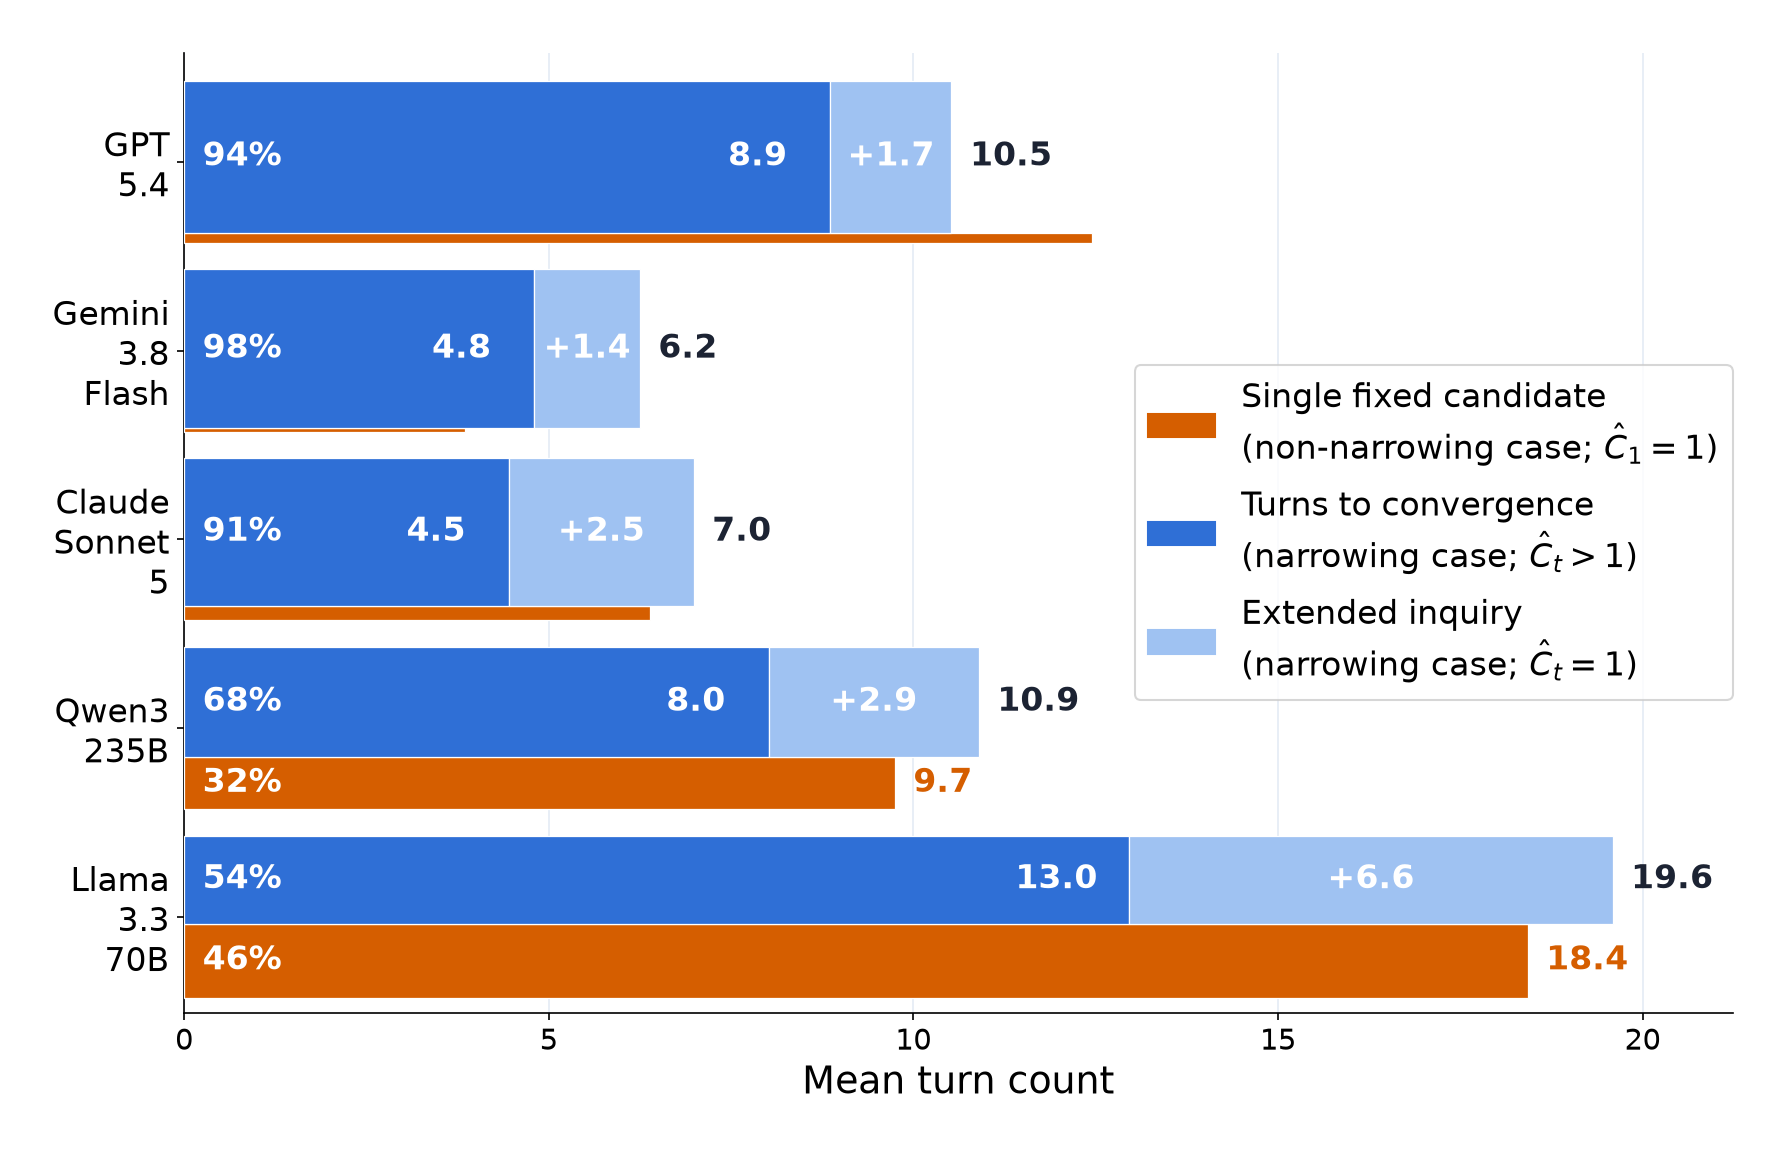
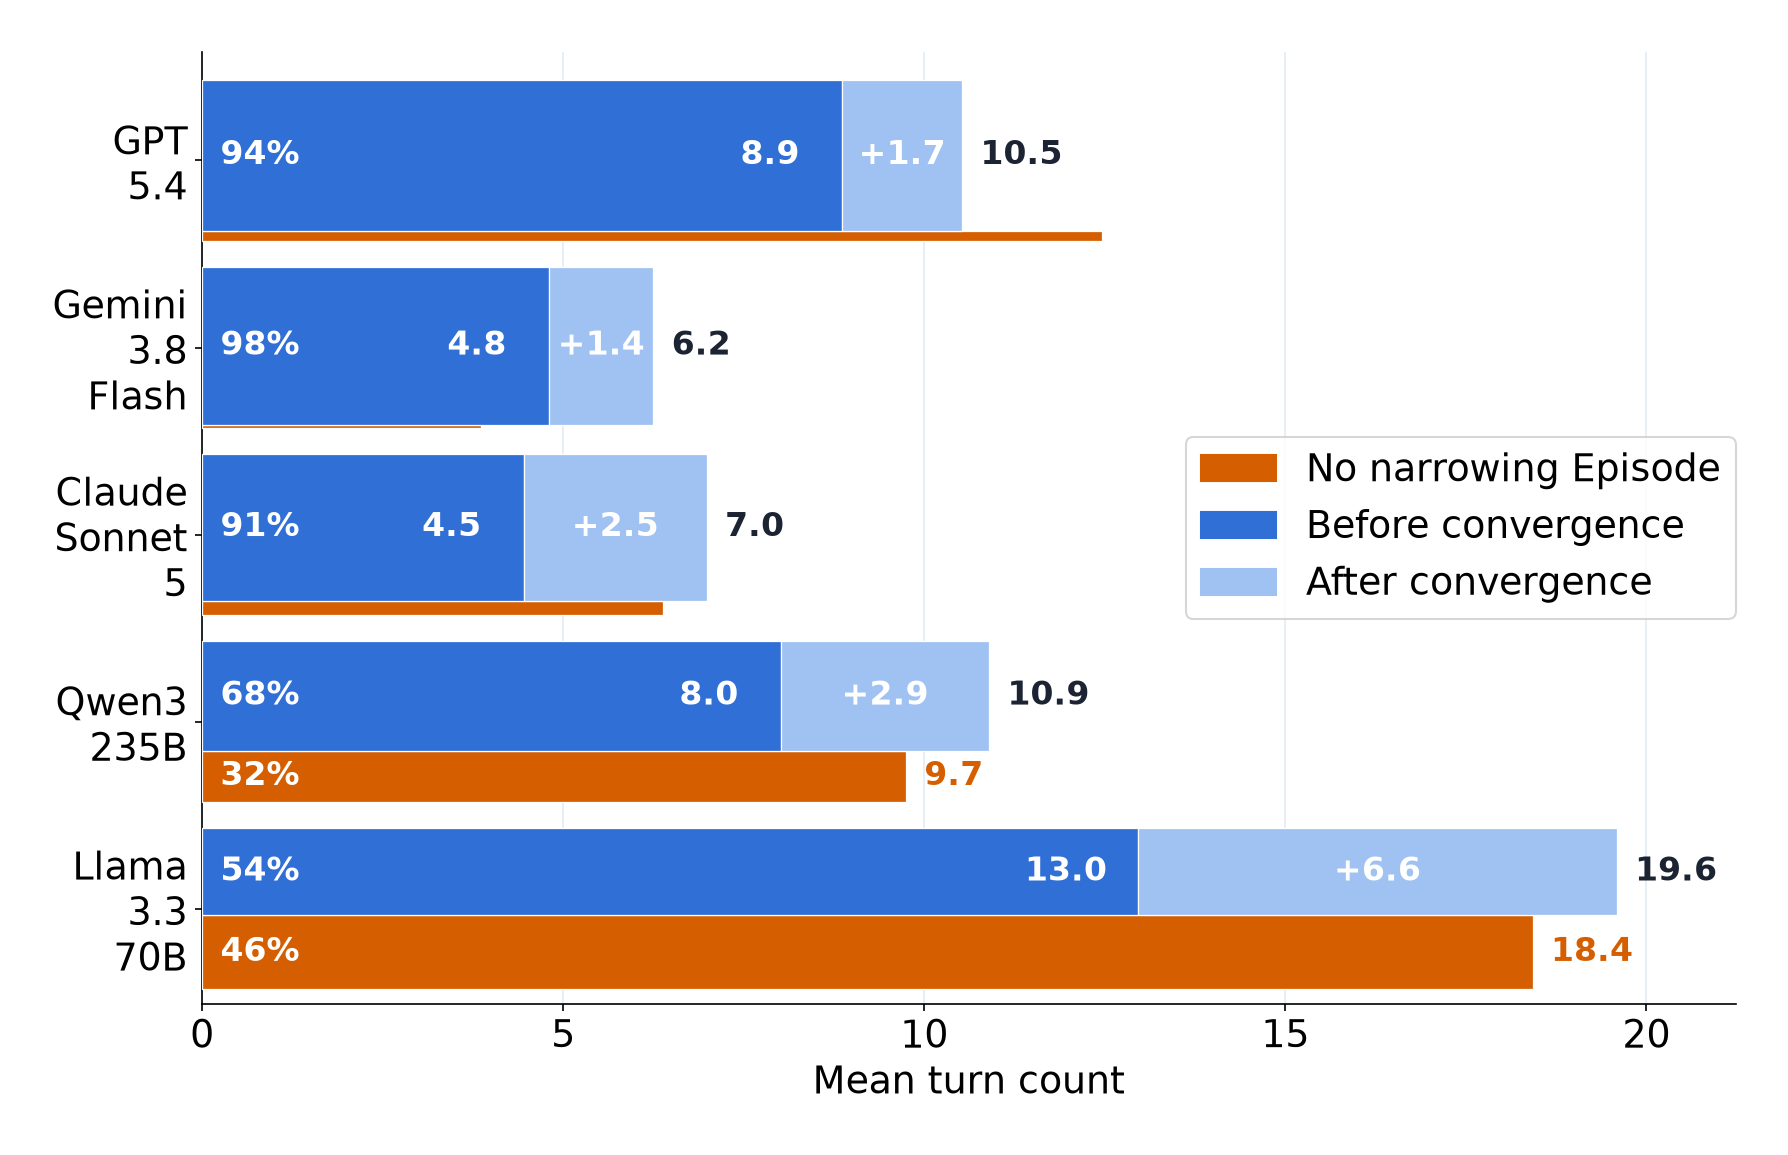
modify: marimekko plot

Changed region(s): [[0.0308, 0.0623, 0.9552, 0.9662], [0.6162, 0.3117, 0.986, 0.5922], [0.8936, 0.8727, 0.9552, 0.9039]]

diff --git a/reporting/plot_overcommitment_marimekko.py b/reporting/plot_overcommitment_marimekko.py
@@ -174,17 +174,17 @@ def main() -> None:
         ax.grid(axis="x", color="#E4EBF5", linewidth=0.8, zorder=0)
         ax.spines[["top", "right"]].set_visible(False)
         ax.set_xlabel("Mean turn count", fontsize=18)
-        ax.tick_params(axis="x", labelsize=14)
+        ax.tick_params(axis="both", labelsize=18)
 
         handles = [
             plt.Rectangle((0, 0), 1, 1, color=COLOR_PINNED,
-                          label="Single fixed candidate\n" + r"(non-narrowing case; $\hat{C}_1=1$)"),
+                          label="No narrowing Episode"),
             plt.Rectangle((0, 0), 1, 1, color=COLOR_CONFIDENT,
-                          label="Turns to convergence\n" + r"(narrowing case; $\hat{C}_t > 1$)"),
+                          label="Before convergence"),
             plt.Rectangle((0, 0), 1, 1, color=COLOR_OVERCOMMIT,
-                          label="Extended inquiry\n" + r"(narrowing case; $\hat{C}_t = 1$)"),
+                          label="After convergence"),
         ]
-        ax.legend(handles=handles, fontsize=16, loc="center right",
+        ax.legend(handles=handles, fontsize=18, loc="center right",
                   bbox_to_anchor=(1, 0.5), borderaxespad=0.0,
                 )#frameon=False)
 
